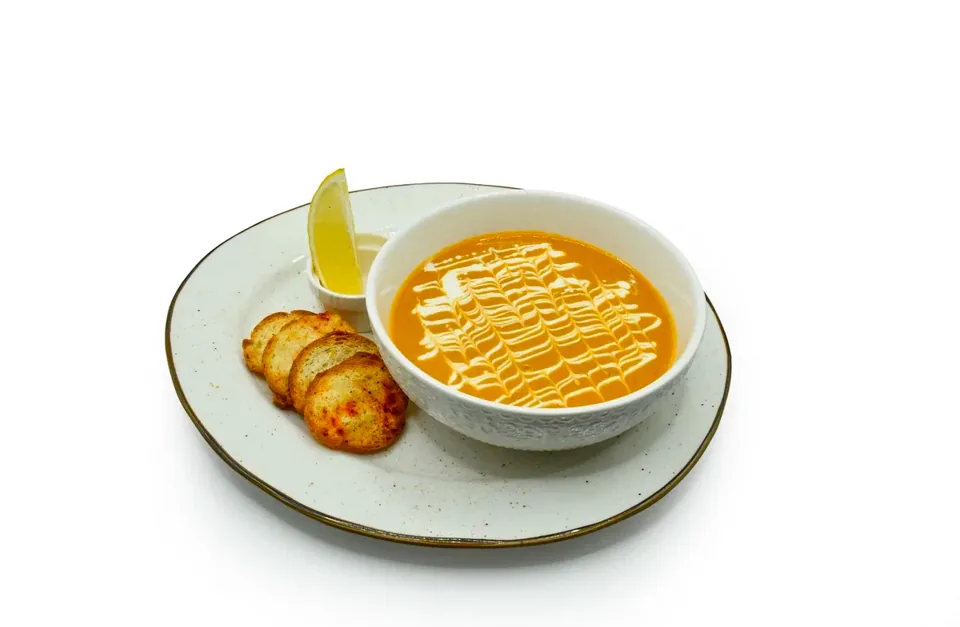
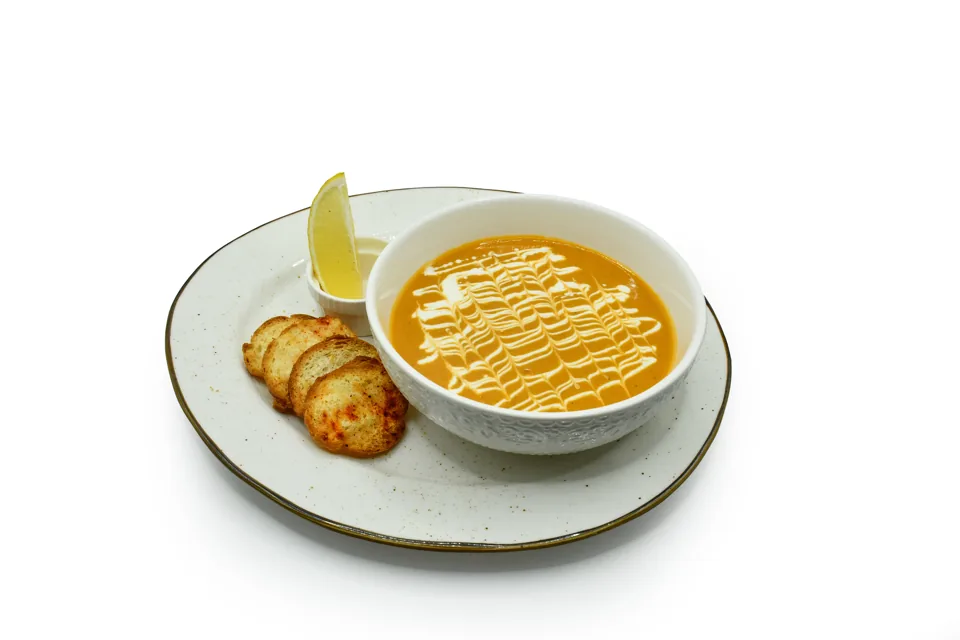
menu: 26 ручных пар фото (name_map_overrides.json) — ещё 22 карточки
Ручные пары от главного терминала живут в menu/name_map_overrides.json {сайт: путь|null} и
накладываются поверх автоматики при каждом прогоне match_photos.py (null снимает фото, нет файла —
пропуск с пометкой в отчёте, раздел «Ручные пары»). Среди них: драники, чечевичный крем-суп, рамен,
круассан спайси, багет, одно фото на Пуровер V60 и Батч Брю, глинтвейн вишнёвый, фреш грейпфрут,
покупные напитки (Coca-Cola, Zero, Fanta, Sprite, Schweppes, Piko, Salam), синнабоны, тарталетка,
фисташковый рулет, шу, сырники с иримшиком, облепиха-мёд-апельсин, айс клубничный капучино,
«Классический» → айс ти. cards.json: 196 карточек (+22), все 174 прежних на месте; 26 webp.

diff --git a/menu/match_photos.py b/menu/match_photos.py
@@ -9,6 +9,7 @@
 цифры должны совпадать). Среди дублей лучше: png/jpg над jfif, большее разрешение (PIL), литеральное
 совпадение. Не берём: «ChatGPT Image», «1кг/1 кг», «бокс», «мякоть», «фарш».
 
+Ручные пары — menu/name_map_overrides.json {сайт: путь|null}, накладываются поверх автоматики.
 Результат — поле "drive_file" в menu/name_map.json (путь относительно menu/menu_photos/) рядом с
 ключом iiko: {название_сайта: {"iiko": key|null, "drive_file": "кухня/Рибай на кости.png"|null}}.
 Отчёт (спорные, ненайденные, лишние файлы) — menu/photo_map_report.md.
@@ -202,6 +203,9 @@ def match(site, files, cutoff=0.88):
 def report_text(report, stats, source):
     L = [f'источник: {source}', f'фото: файлов {stats["files"]} (без мусора), позиций сайта {stats["site"]}, с фото {stats["mapped"]} '
          f'(буквально {stats["literal"]}, спорных {stats["fuzzy"]}), без фото {stats["missing"]}, файлов без пары {stats["unused"]}', '']
+    L.append(f'## Ручные пары ({stats.get("manual", 0)}) — из name_map_overrides.json')
+    L += ['  ' + x for x in report.get('manual', [])] or ['  —']
+    L.append('')
     L.append(f'## Спорные ({stats["fuzzy"]}) — совпало не буквально: сайт ← файл')
     L += ['  ' + x for x in report['fuzzy']] or ['  —']
     L.append('')
@@ -214,6 +218,34 @@ def report_text(report, stats, source):
     L.append(f'## Файлы без пары ({stats["unused"]}) — не похожи ни на одну позицию сайта')
     L += ['  ' + x for x in report['unused']] or ['  —']
     return '\n'.join(L) + '\n'
+
+
+def apply_overrides(result, report, stats, overrides_path, photos_dir=None, listing_names=None):
+    """menu/name_map_overrides.json {сайт: путь|null} поверх автоматики; путь проверяется по папке (или листингу)"""
+    if not overrides_path or not os.path.isfile(overrides_path):
+        return
+    with open(overrides_path, encoding='utf-8') as f:
+        over = {k: v for k, v in json.load(f).items() if not k.startswith('_')}
+    manual = []
+    for name, path in over.items():
+        if path is None:
+            if name in result:
+                del result[name]
+                manual.append(f'{name}  ⇒ фото снято')
+            continue
+        exists = (os.path.isfile(os.path.join(photos_dir, path)) if photos_dir else (path in (listing_names or set())))
+        if not exists:
+            manual.append(f'{name}  ←  {path}  — НЕТ ТАКОГО ФАЙЛА, пропущено')
+            continue
+        was = result.get(name)
+        result[name] = path
+        manual.append(f'{name}  ←  {path}' + (f'  (было: {was})' if was and was != path else ''))
+    report['manual'] = manual
+    stats['manual'] = sum(1 for m in manual if 'пропущено' not in m)
+    stats['mapped'] = len(result)
+    report['missing'] = [m for m in report['missing'] if m.split('  [')[0] not in result]
+    report['unused'] = [u for u in report['unused'] if u not in set(result.values())]
+    stats['missing'], stats['unused'] = len(report['missing']), len(report['unused'])
 
 
 def load_map(path):
@@ -232,6 +264,7 @@ def main(argv=None):
     ap.add_argument('--listing', help='сухой прогон по листингу Диска (json с files[].title) вместо папки')
     ap.add_argument('--map', default=os.path.join(HERE, 'name_map.json'))
     ap.add_argument('--report', default=os.path.join(HERE, 'photo_map_report.md'))
+    ap.add_argument('--overrides', default=os.path.join(HERE, 'name_map_overrides.json'), help='ручные пары поверх автоматики')
     ap.add_argument('--dry-run', action='store_true', help='только отчёт, name_map.json не писать')
     ap.add_argument('--cutoff', type=float, default=0.88)
     a = ap.parse_args(argv)
@@ -243,6 +276,8 @@ def main(argv=None):
             return 2
         files, source = scan_folder(a.photos), f'папка {os.path.relpath(a.photos, ROOT)}'
     result, report, stats = match(mn.site_names(a.menu), files, a.cutoff)
+    apply_overrides(result, report, stats, a.overrides, photos_dir=None if a.listing else a.photos,
+                    listing_names={f['path'] for f in files})
     txt = report_text(report, stats, source)
     if not a.dry_run:
         m = load_map(a.map)

diff --git a/tests/test_match_photos.py b/tests/test_match_photos.py
@@ -137,6 +137,28 @@ class TestNormAndMatch(unittest.TestCase):
         with contextlib.redirect_stderr(io.StringIO()):
             self.assertEqual(mp.main(['--photos', os.path.join(self.d, 'нет')]), 2)
 
+    def test_overrides(self):
+        over = os.path.join(self.d, 'over.json')
+        with open(over, 'w', encoding='utf-8') as f:
+            json.dump({'_meta': 'x', 'Рамен сливочный': 'кухня/рамен сливочный с курицей.png',     # автоматика не угадывала
+                       'Маргарита': 'кухня/Пицца Маргарита.jfif',                                  # замена автоматической пары
+                       'Борщ с говядиной и бородинским хлебом': None,                             # снять фото
+                       'Стейк-омлет': 'кухня/нет такого.png'}, f, ensure_ascii=False)             # нет файла → пропуск
+        mapp = os.path.join(self.d, 'name_map.json')
+        with contextlib.redirect_stdout(io.StringIO()):
+            mp.main(['--menu', self.index, '--photos', self.photos, '--map', mapp, '--report', os.path.join(self.d, 'r.md'), '--overrides', over])
+        m = json.load(open(mapp, encoding='utf-8'))
+        self.assertEqual(m['Рамен сливочный']['drive_file'], 'кухня/рамен сливочный с курицей.png')
+        self.assertEqual(m['Маргарита']['drive_file'], 'кухня/Пицца Маргарита.jfif')
+        self.assertNotIn('Борщ с говядиной и бородинским хлебом', m)
+        self.assertEqual(m['Стейк-омлет']['drive_file'], 'кухня/стейк омлет.png')                # автоматика осталась
+        rep = open(os.path.join(self.d, 'r.md'), encoding='utf-8').read()
+        self.assertIn('## Ручные пары (3)', rep)
+        self.assertIn('Маргарита  ←  кухня/Пицца Маргарита.jfif  (было: кухня/Пицца Маргарита.png)', rep)
+        self.assertIn('НЕТ ТАКОГО ФАЙЛА', rep)
+        self.assertIn('фото снято', rep)
+        self.assertNotIn('Рамен сливочный  [', rep.split('## Без фото')[1])
+
 
 class TestBuildWithFolderPhotos(unittest.TestCase):
     def setUp(self):

diff --git a/menu/photo_map_report.md b/menu/photo_map_report.md
@@ -3,7 +3,35 @@
 Собрано `menu/match_photos.py`; правится руками в `name_map.json` (поле drive_file).
 
 источник: папка menu/menu_photos
-фото: файлов 272 (без мусора), позиций сайта 221, с фото 167 (буквально 70, спорных 97), без фото 53, файлов без пары 70
+фото: файлов 272 (без мусора), позиций сайта 221, с фото 193 (буквально 70, спорных 97), без фото 28, файлов без пары 45
+
+## Ручные пары (26) — из name_map_overrides.json
+  Картофельные драники с лососем и соусом голландез  ←  кухня/Драники картофельные с лососеми соусом голландез.png
+  Чечевичный крем-суп  ←  кухня/Суп чечевичный.jpg
+  Рамен сливочный  ←  кухня/Рамен сливочный с курицей.png
+  Круассан спайси с креветками и скрэмблом  ←  кухня/круассан спайс с креветками.png
+  Багет  ←  кухня/Багет классический 1шт.png
+  Пуровер V60  ←  бар/Пуровер V60 и Батч брю.jpeg
+  Батч Брю  ←  бар/Пуровер V60 и Батч брю.jpeg
+  Вишнёвый  ←  бар/Глинтвейн Вишня.jpg
+  Грейпфрутовый  ←  бар/Фреш грейпфрут.webp
+  Coca-Cola  ←  бар/кола 0.25.jpg
+  Coca-Cola Zero  ←  бар/кола 0.25 зеро.jpg
+  Fanta  ←  бар/фанта 0.25.webp
+  Sprite  ←  бар/спрайт 0.25.jpg
+  Schweppes  ←  бар/швэпс 0.45.jpg
+  Piko mini  ←  бар/пико 200мл.jpg
+  Salam Premium Cola glass  ←  бар/SALAM Cola 0,45 ml.jpg
+  Синнабон классический  ←  десерты/синнабон.jfif
+  Синнабон черника  ←  десерты целые/синнабон черника.jpg
+  Тарталетка Банофи пай  ←  десерты целые/тарталетка баннофи пай.jpg
+  Фисташковый рулет  ←  десерты/фисташка рулет.jfif
+  Шу абрикосовый  ←  десерты/шу мак абрикос.jfif
+  Шу ягодный  ←  десерты/шу малиновый.jfif
+  Сырники с иримшиком  ←  пф и мясо/сырники иримшик.jfif
+  Облепиха-мёд-апельсин  ←  бар/авторский чай/облепиха мел.png
+  Ice клубничный капучино  ←  бар/25.08/айс клубничный капучино.jpg
+  Классический  ←  бар/Айс ти Классический.jpg
 
 ## Спорные (97) — совпало не буквально: сайт ← файл
   Каша овсяная с гранолой и персиком  ←  кухня/Каша овсяная с гранолой и с персиком.jpg  (те же слова)
@@ -107,115 +135,66 @@
 ## Неоднозначные (1) — одно название в разных разделах ведёт к разным файлам
   Классический  [Ice tea] ← бар/Айс ти Классический.jpg  /  [Раф] ← бар/Раф классический.jpg  ⇒ пара не дана
 
-## Без фото (53)
-  Картофельные драники с лососем и соусом голландез  [Завтраки]
-  Круассан спайси с креветками и скрэмблом  [Завтраки]
-  Чечевичный крем-суп  [Супы]
-  Рамен сливочный  [Паназия]
+## Без фото (28)
   Паста с креветками  [Паста фреш]
   Запечённые вареники  [Домашние блюда]
   Мини-самса из пельменей  [Домашние блюда]
   Курица гриль  [Блюда на гриле]
-  Багет  [Хлеба]
   Ассорти колбасок на 4–5 персон  [На компанию]
   Микс гриль на 5–6 персон  [На компанию]
   Рыбный микс на 5–6 персон  [На компанию]
   Бешбармак на 4–5 персон (только по предзаказу)  [На компанию]
   Куырдак на 4–5 персон (только по предзаказу)  [На компанию]
   Эспрессо / Доппио  [Классический кофе]
-  Пуровер V60  [Классический кофе]
-  Батч Брю  [Классический кофе]
   Капучино 0.3 + синнабон  [Классический кофе]
   Ice Американо  [Холодные кофейные напитки]
   Бамбл кофе на соке / на фреше  [Холодные кофейные напитки]
-  Облепиха-мёд-апельсин  [Авторские чаи]
   Маракуйя-ананас-апельсин  [Авторские чаи]
-  Грейпфрутовый  [Фреши]
   Матча-латте  [Спешл напитки]
   Ice матча малина тоник  [Спешл напитки]
-  Ice клубничный капучино  [Спешл напитки]
   Горячий шоколад  [Спешл напитки]
-  Вишнёвый  [Глинтвейн б/а]
   Морс ягодный  [Напитки]
   A’SU glass  [Напитки]
-  Coca-Cola  [Напитки]
-  Coca-Cola Zero  [Напитки]
-  Fanta  [Напитки]
-  Sprite  [Напитки]
-  Piko mini  [Напитки]
-  Schweppes  [Напитки]
   Декаф  [Дополнения]
   Альтернативное молоко  [Дополнения]
   Безлактозное молоко  [Дополнения]
-  Тарталетка Банофи пай  [Десерты]
-  Шу ягодный  [Десерты]
-  Шу абрикосовый  [Десерты]
-  Синнабон классический  [Десерты]
-  Синнабон черника  [Десерты]
-  Фисташковый рулет  [Десерты / Торты (целиком)]
   Мякоть  [Мясо]
   Фарш  [Мясо]
   Сэндвичи в ассортименте  [Сэндвичи]
-  Сырники с иримшиком  [Полуфабрикаты]
-  Salam Premium Cola glass  [Напитки]
   Salam Premium Cola can  [Напитки]
   AVA lemonade citrus  [Напитки]
   Gracio: вишня, яблоко, апельсин  [Напитки]
 
-## Файлы без пары (70) — не похожи ни на одну позицию сайта
-  бар/25.08/айс клубничный капучино.jpg
+## Файлы без пары (45) — не похожи ни на одну позицию сайта
   бар/25.08/груша мята.png
   бар/25.08/марокканский.png
   бар/25.08/облепиха мел.png
   бар/Bumble кофе.png
-  бар/SALAM Cola 0,45 ml.jpg
-  бар/Айс ти Классический.jpg
   бар/Вода still water 0,5.png
-  бар/Глинтвейн Вишня.jpg
   бар/Глинтвейн апельсин с облепихой.png
   бар/Глинтвейн яблоко.jpg
-  бар/Пуровер V60 и Батч брю.jpeg
   бар/Раф классический.jpg
-  бар/Фреш грейпфрут.webp
   бар/авторский чай/груша мята.png
   бар/авторский чай/марокканский.png
-  бар/авторский чай/облепиха мел.png
   бар/доп к чаю/Иримшик доп 30 гр.jpg
   бар/жасмин.png
   бар/киви яблоко.jpg
-  бар/кола 0.25 зеро.jpg
-  бар/кола 0.25.jpg
   бар/кола 0.45.jpg
   бар/напитки литровые/ананас черника.png
   бар/напитки литровые/киви яблоко.png
   бар/напитки литровые/клубничный мохито.png
-  бар/пико 200мл.jpg
-  бар/спрайт 0.25.jpg
-  бар/фанта 0.25.webp
   бар/чайник апельсин маракуйя мед.png
   бар/чайник молочный улун.png
-  бар/швэпс 0.45.jpg
   десерты целые/меренговый рулет целый.jpg
-  десерты целые/синнабон черника.jpg
-  десерты целые/тарталетка баннофи пай.jpg
   десерты целые/чизкейк по испански.jpg
   десерты целые/чизкейк по казахски целый.jpg
-  десерты/синнабон.jfif
-  десерты/фисташка рулет.jfif
-  десерты/шу мак абрикос.jfif
-  десерты/шу малиновый.jfif
-  кухня/Багет классический 1шт.png
-  кухня/Драники картофельные с лососеми соусом голландез.png
   кухня/Крок Мадам с индейкой.jpg
-  кухня/Рамен сливочный с курицей.png
-  кухня/Суп чечевичный.jpg
   кухня/Цезарь с куриным щницелем.png
   кухня/алматинский завтрак~1feP9Buk.jfif
   кухня/блины с бананом.jfif
   кухня/блины со сметаной.jfif
   кухня/говяжий.png
   кухня/клаб сэндвич.jfif
-  кухня/круассан спайс с креветками.png
   кухня/курица карри с пито лепешкой.png
   кухня/курочка в сливочном соусе.jfif
   кухня/люля из говядины.png
@@ -231,5 +210,4 @@
   кухня/томленые ребрка.png
   кухня/тыквенный.png
   кухня/шашлычки.png
-  пф и мясо/сырники иримшик.jfif
   пф и мясо/чебуреки.jpg
